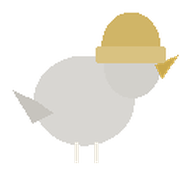
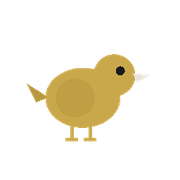
simple and fasft

diff --git a/scripts/components/navbar.js b/scripts/components/navbar.js
@@ -213,18 +213,16 @@ export function createNavbar(content, currentLocale) {
           <a class="brand" href="${content.nav.brandHref || "./index.html"}" aria-label="${content.brand.homeAriaLabel}">
             <span class="brand-mark" aria-hidden="true">
               <svg class="brand-bird" viewBox="0 0 120 120" fill="none">
-                <path d="M31 65 20 60 29 73 38 69Z" fill="var(--text-muted)" opacity="0.5"/>
-                <ellipse cx="52" cy="64" rx="23" ry="18" fill="var(--text-muted)" opacity="0.35"/>
-                <circle cx="74" cy="50" r="13" fill="var(--text-muted)" opacity="0.4"/>
-                <ellipse cx="49" cy="65" rx="11" ry="15" transform="rotate(-24 49 65)" fill="var(--text-muted)" opacity="0.25"/>
-                <circle cx="78" cy="47" r="2.2" fill="var(--text)"/>
-                <path d="M85 50 95 46 88 55Z" fill="var(--accent)"/>
-                <path d="M49 81V89" stroke="var(--text)" stroke-width="2.5" stroke-linecap="round"/>
-                <path d="M58 81V89" stroke="var(--text)" stroke-width="2.5" stroke-linecap="round"/>
-                <g>
-                  <path d="M60 42c0-7.4 6-13.4 13.4-13.4 7 0 12.8 5.4 13.4 12.2v2.2H60V42Z" fill="var(--accent)" opacity="0.85"/>
-                  <path d="M58 43h31c1.8 0 3.2 1.4 3.2 3.2 0 1.1-.5 2-1.4 2.7H58.4c-.9-.7-1.4-1.6-1.4-2.7 0-1.8 1.4-3.2 3.2-3.2Z" fill="var(--accent)" opacity="0.7"/>
-                </g>
+                <path d="M28 62 18 56 24 68 32 65Z" fill="var(--accent)"/>
+                <ellipse cx="55" cy="65" rx="25" ry="20" fill="var(--accent)"/>
+                <circle cx="76" cy="50" r="14" fill="var(--accent)"/>
+                <ellipse cx="50" cy="65" rx="13" ry="13" fill="var(--accent)" opacity="0.55"/>
+                <circle cx="80" cy="47" r="3" fill="var(--bg)"/>
+                <path d="M89 49 100 50 91 55Z" fill="var(--text)"/>
+                <path d="M48 83V93" stroke="var(--accent)" stroke-width="2.8" stroke-linecap="round"/>
+                <path d="M44 93H52" stroke="var(--accent)" stroke-width="2.8" stroke-linecap="round"/>
+                <path d="M60 83V93" stroke="var(--accent)" stroke-width="2.8" stroke-linecap="round"/>
+                <path d="M56 93H64" stroke="var(--accent)" stroke-width="2.8" stroke-linecap="round"/>
               </svg>
             </span>
             <span class="brand-text">

diff --git a/scripts/components/tabBar.js b/scripts/components/tabBar.js
@@ -87,27 +87,19 @@ const settingsTabIconSVG = `
   </svg>
 `;
 
-function birdProfileSVG(role) {
-  const helmetMarkup = role === "developer" ? `
-    <g class="tab-bird__helmet">
-      <path d="M60 42c0-7.4 6-13.4 13.4-13.4 7 0 12.8 5.4 13.4 12.2v2.2H60V42Z" fill="var(--accent)" opacity="0.85"/>
-      <path d="M58 43h31c1.8 0 3.2 1.4 3.2 3.2 0 1.1-.5 2-1.4 2.7H58.4c-.9-.7-1.4-1.6-1.4-2.7 0-1.8 1.4-3.2 3.2-3.2Z" fill="var(--accent)" opacity="0.7"/>
-    </g>
-  ` : "";
-
+function birdProfileSVG(_role) {
   return `
-    <svg class="tab-bar__icon tab-bar__icon--bird" viewBox="14 24 82 72" fill="none">
-      <g>
-        <path d="M31 65 20 60 29 73 38 69Z" fill="var(--text-muted)" opacity="0.5"/>
-        <ellipse cx="52" cy="64" rx="23" ry="18" fill="var(--text-muted)" opacity="0.35"/>
-        <circle cx="74" cy="50" r="13" fill="var(--text-muted)" opacity="0.4"/>
-        <ellipse cx="49" cy="65" rx="11" ry="15" transform="rotate(-24 49 65)" fill="var(--text-muted)" opacity="0.25"/>
-        <circle cx="78" cy="47" r="2.2" fill="currentColor"/>
-        <path d="M85 50 95 46 88 55Z" fill="var(--accent)"/>
-        <path d="M49 81V89" stroke="currentColor" stroke-width="2.5" stroke-linecap="round"/>
-        <path d="M58 81V89" stroke="currentColor" stroke-width="2.5" stroke-linecap="round"/>
-        ${helmetMarkup}
-      </g>
+    <svg class="tab-bar__icon tab-bar__icon--bird" viewBox="0 0 120 120" fill="none">
+      <path d="M28 62 18 56 24 68 32 65Z" fill="var(--accent)"/>
+      <ellipse cx="55" cy="65" rx="25" ry="20" fill="var(--accent)"/>
+      <circle cx="76" cy="50" r="14" fill="var(--accent)"/>
+      <ellipse cx="50" cy="65" rx="13" ry="13" fill="var(--accent)" opacity="0.55"/>
+      <circle cx="80" cy="47" r="3" fill="var(--bg)"/>
+      <path d="M89 49 100 50 91 55Z" fill="var(--text)"/>
+      <path d="M48 83V93" stroke="var(--accent)" stroke-width="2.8" stroke-linecap="round"/>
+      <path d="M44 93H52" stroke="var(--accent)" stroke-width="2.8" stroke-linecap="round"/>
+      <path d="M60 83V93" stroke="var(--accent)" stroke-width="2.8" stroke-linecap="round"/>
+      <path d="M56 93H64" stroke="var(--accent)" stroke-width="2.8" stroke-linecap="round"/>
     </svg>
   `;
 }

diff --git a/styles/app-shell.css b/styles/app-shell.css
@@ -248,19 +248,19 @@ html:not(.has-tab-bar) .app-splash {
 /* ── Developer 4-tab layout: center İlan Ver precisely ── */
 .tab-bar--dev {
   display: grid;
-  grid-template-columns: 1fr 1fr 68px 1fr 1fr;
+  grid-template-columns: 1fr 68px 1fr 1fr;
   justify-items: center;
-  align-items: stretch;
+  align-items: end;
 }
 
-/* Keşfet sits in col 1 */
-.tab-bar--dev > .tab-bar__item:nth-child(1) { grid-column: 1; }
-/* İlan Ver center button in col 3 (dead center) */
-.tab-bar--dev > .tab-bar__item--center { grid-column: 3; }
-/* Tekliflerim in col 4 */
-.tab-bar--dev > .tab-bar__item:nth-child(3) { grid-column: 4; }
-/* Ayarlar in col 5 */
-.tab-bar--dev > .tab-bar__item:nth-child(4) { grid-column: 5; }
+/* Keşfet centered between left edge and İlan Ver */
+.tab-bar--dev > .tab-bar__item:nth-child(1) { grid-column: 1; justify-self: center; }
+/* İlan Ver dead center */
+.tab-bar--dev > .tab-bar__item--center { grid-column: 2; }
+/* Tekliflerim */
+.tab-bar--dev > .tab-bar__item:nth-child(3) { grid-column: 3; }
+/* Ayarlar */
+.tab-bar--dev > .tab-bar__item:nth-child(4) { grid-column: 4; }
 
 /* Slightly smaller icons & labels for side tabs in dev layout */
 .tab-bar--dev > .tab-bar__item:not(.tab-bar__item--center) .tab-bar__icon {
